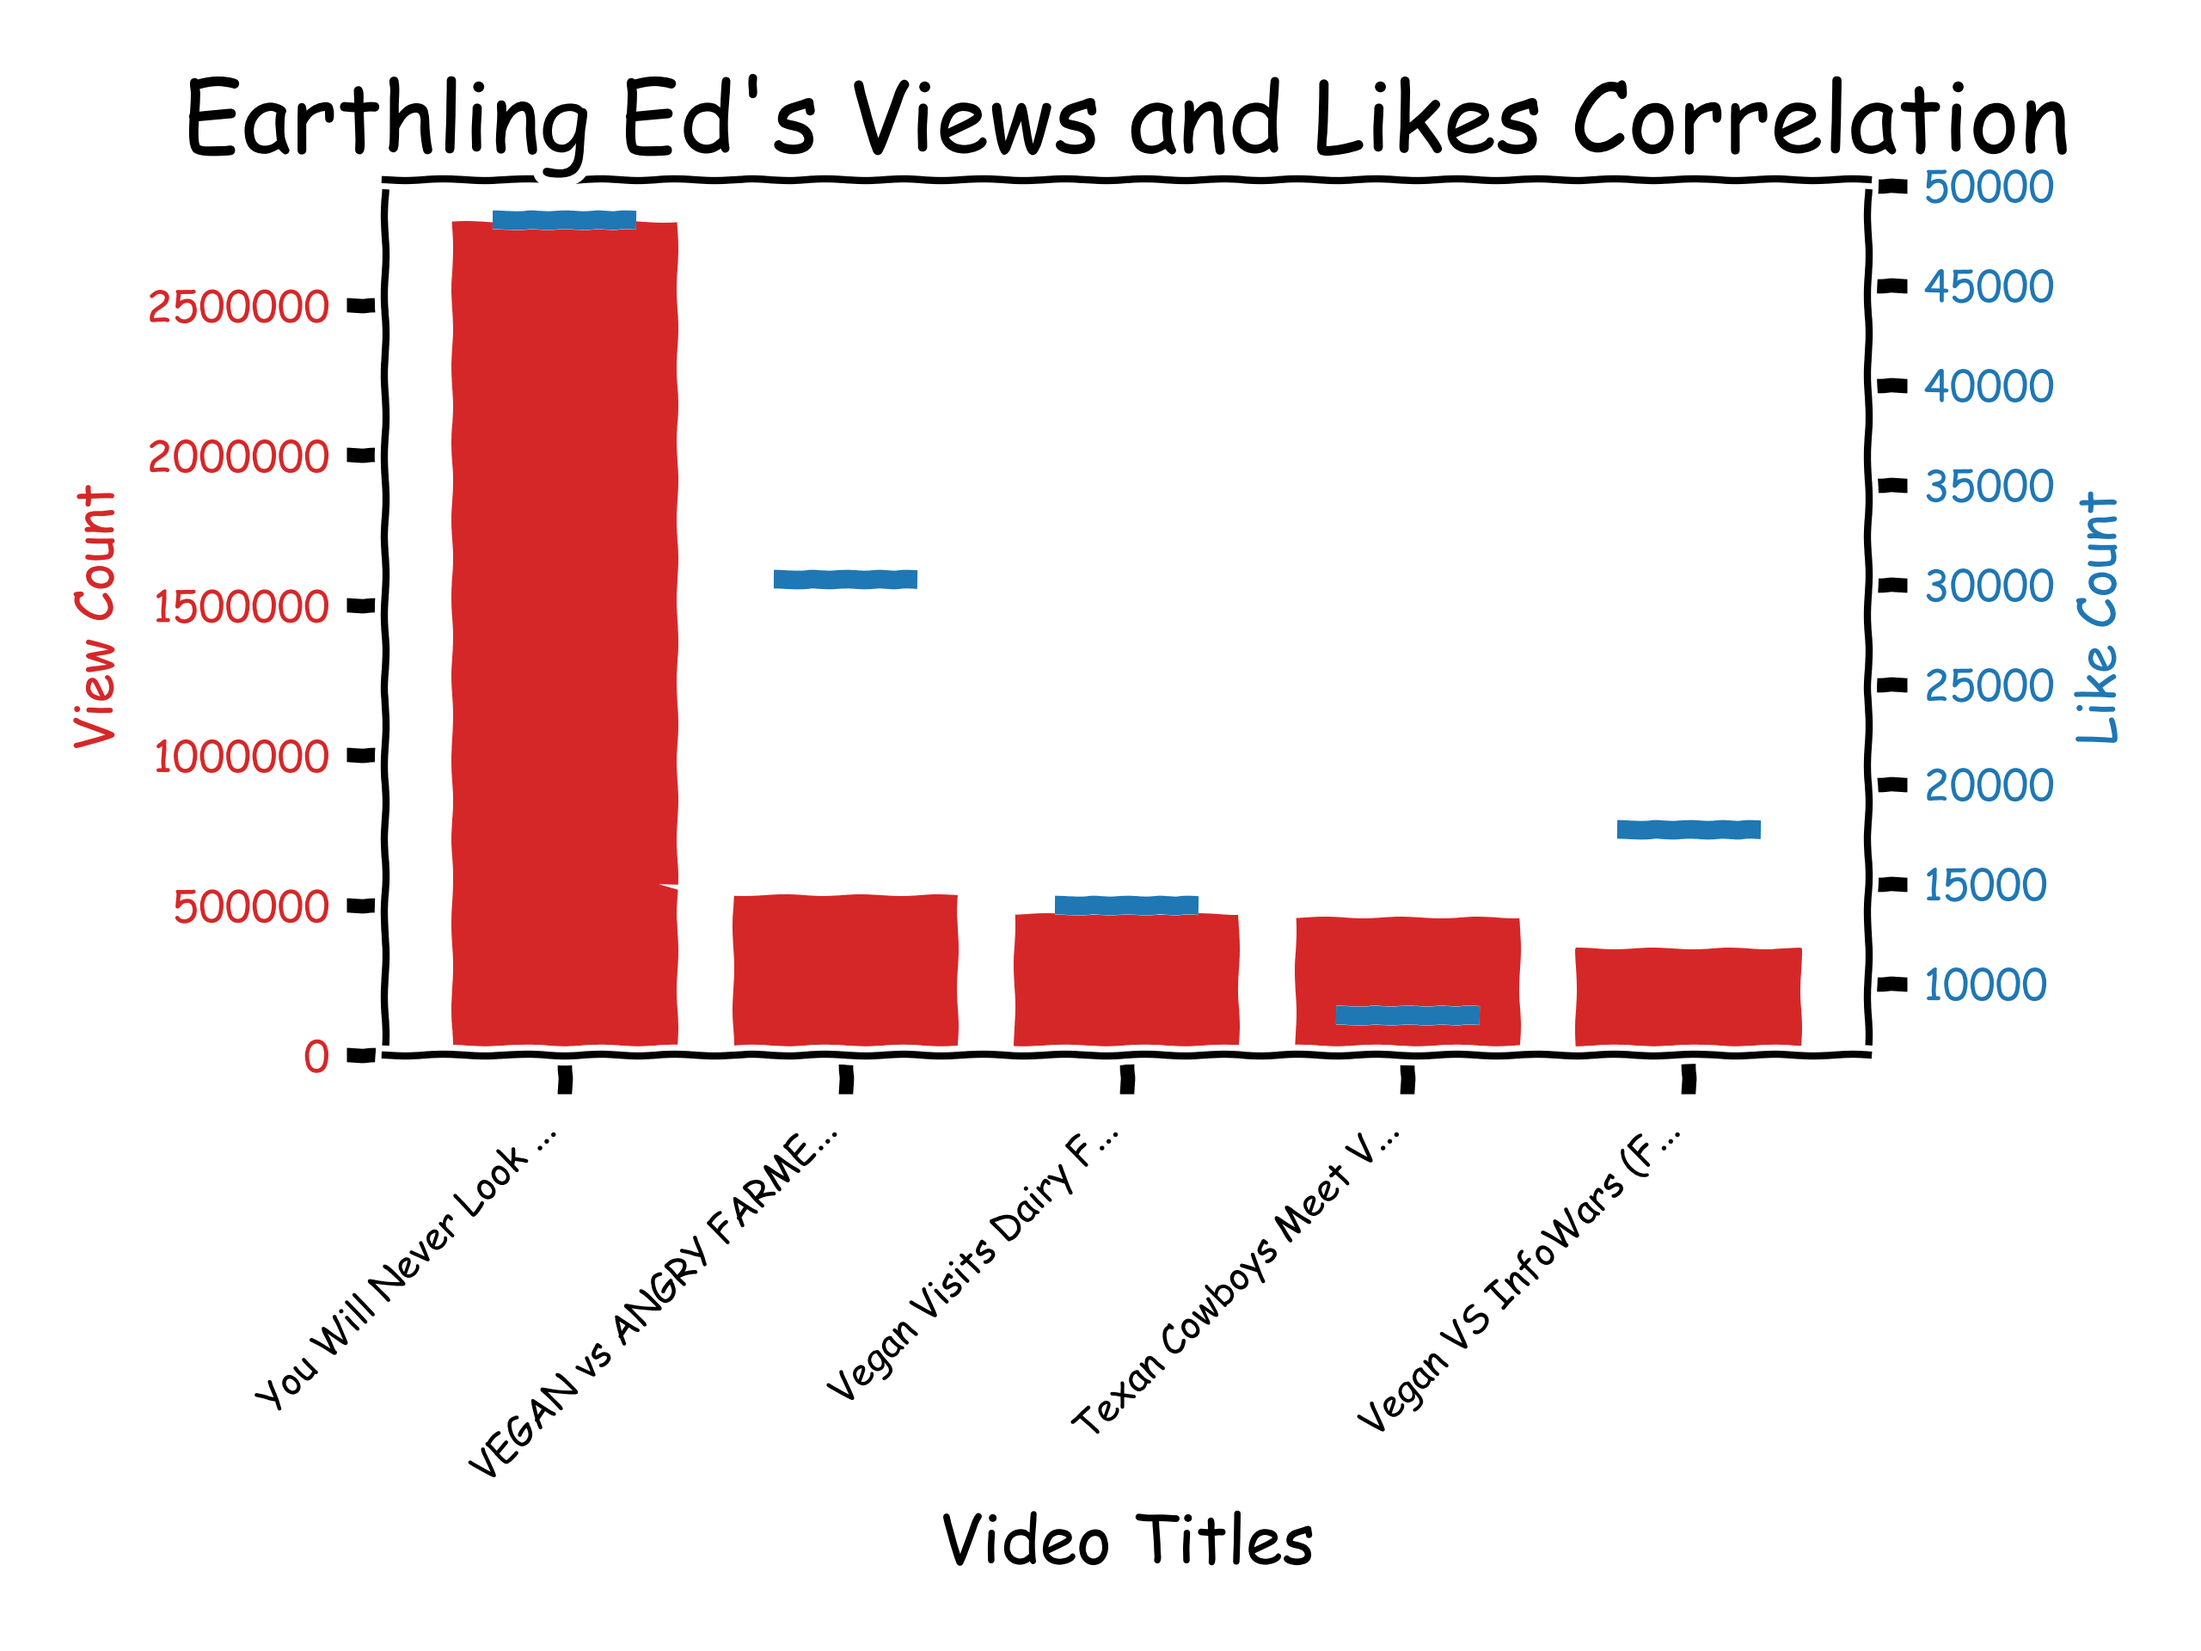
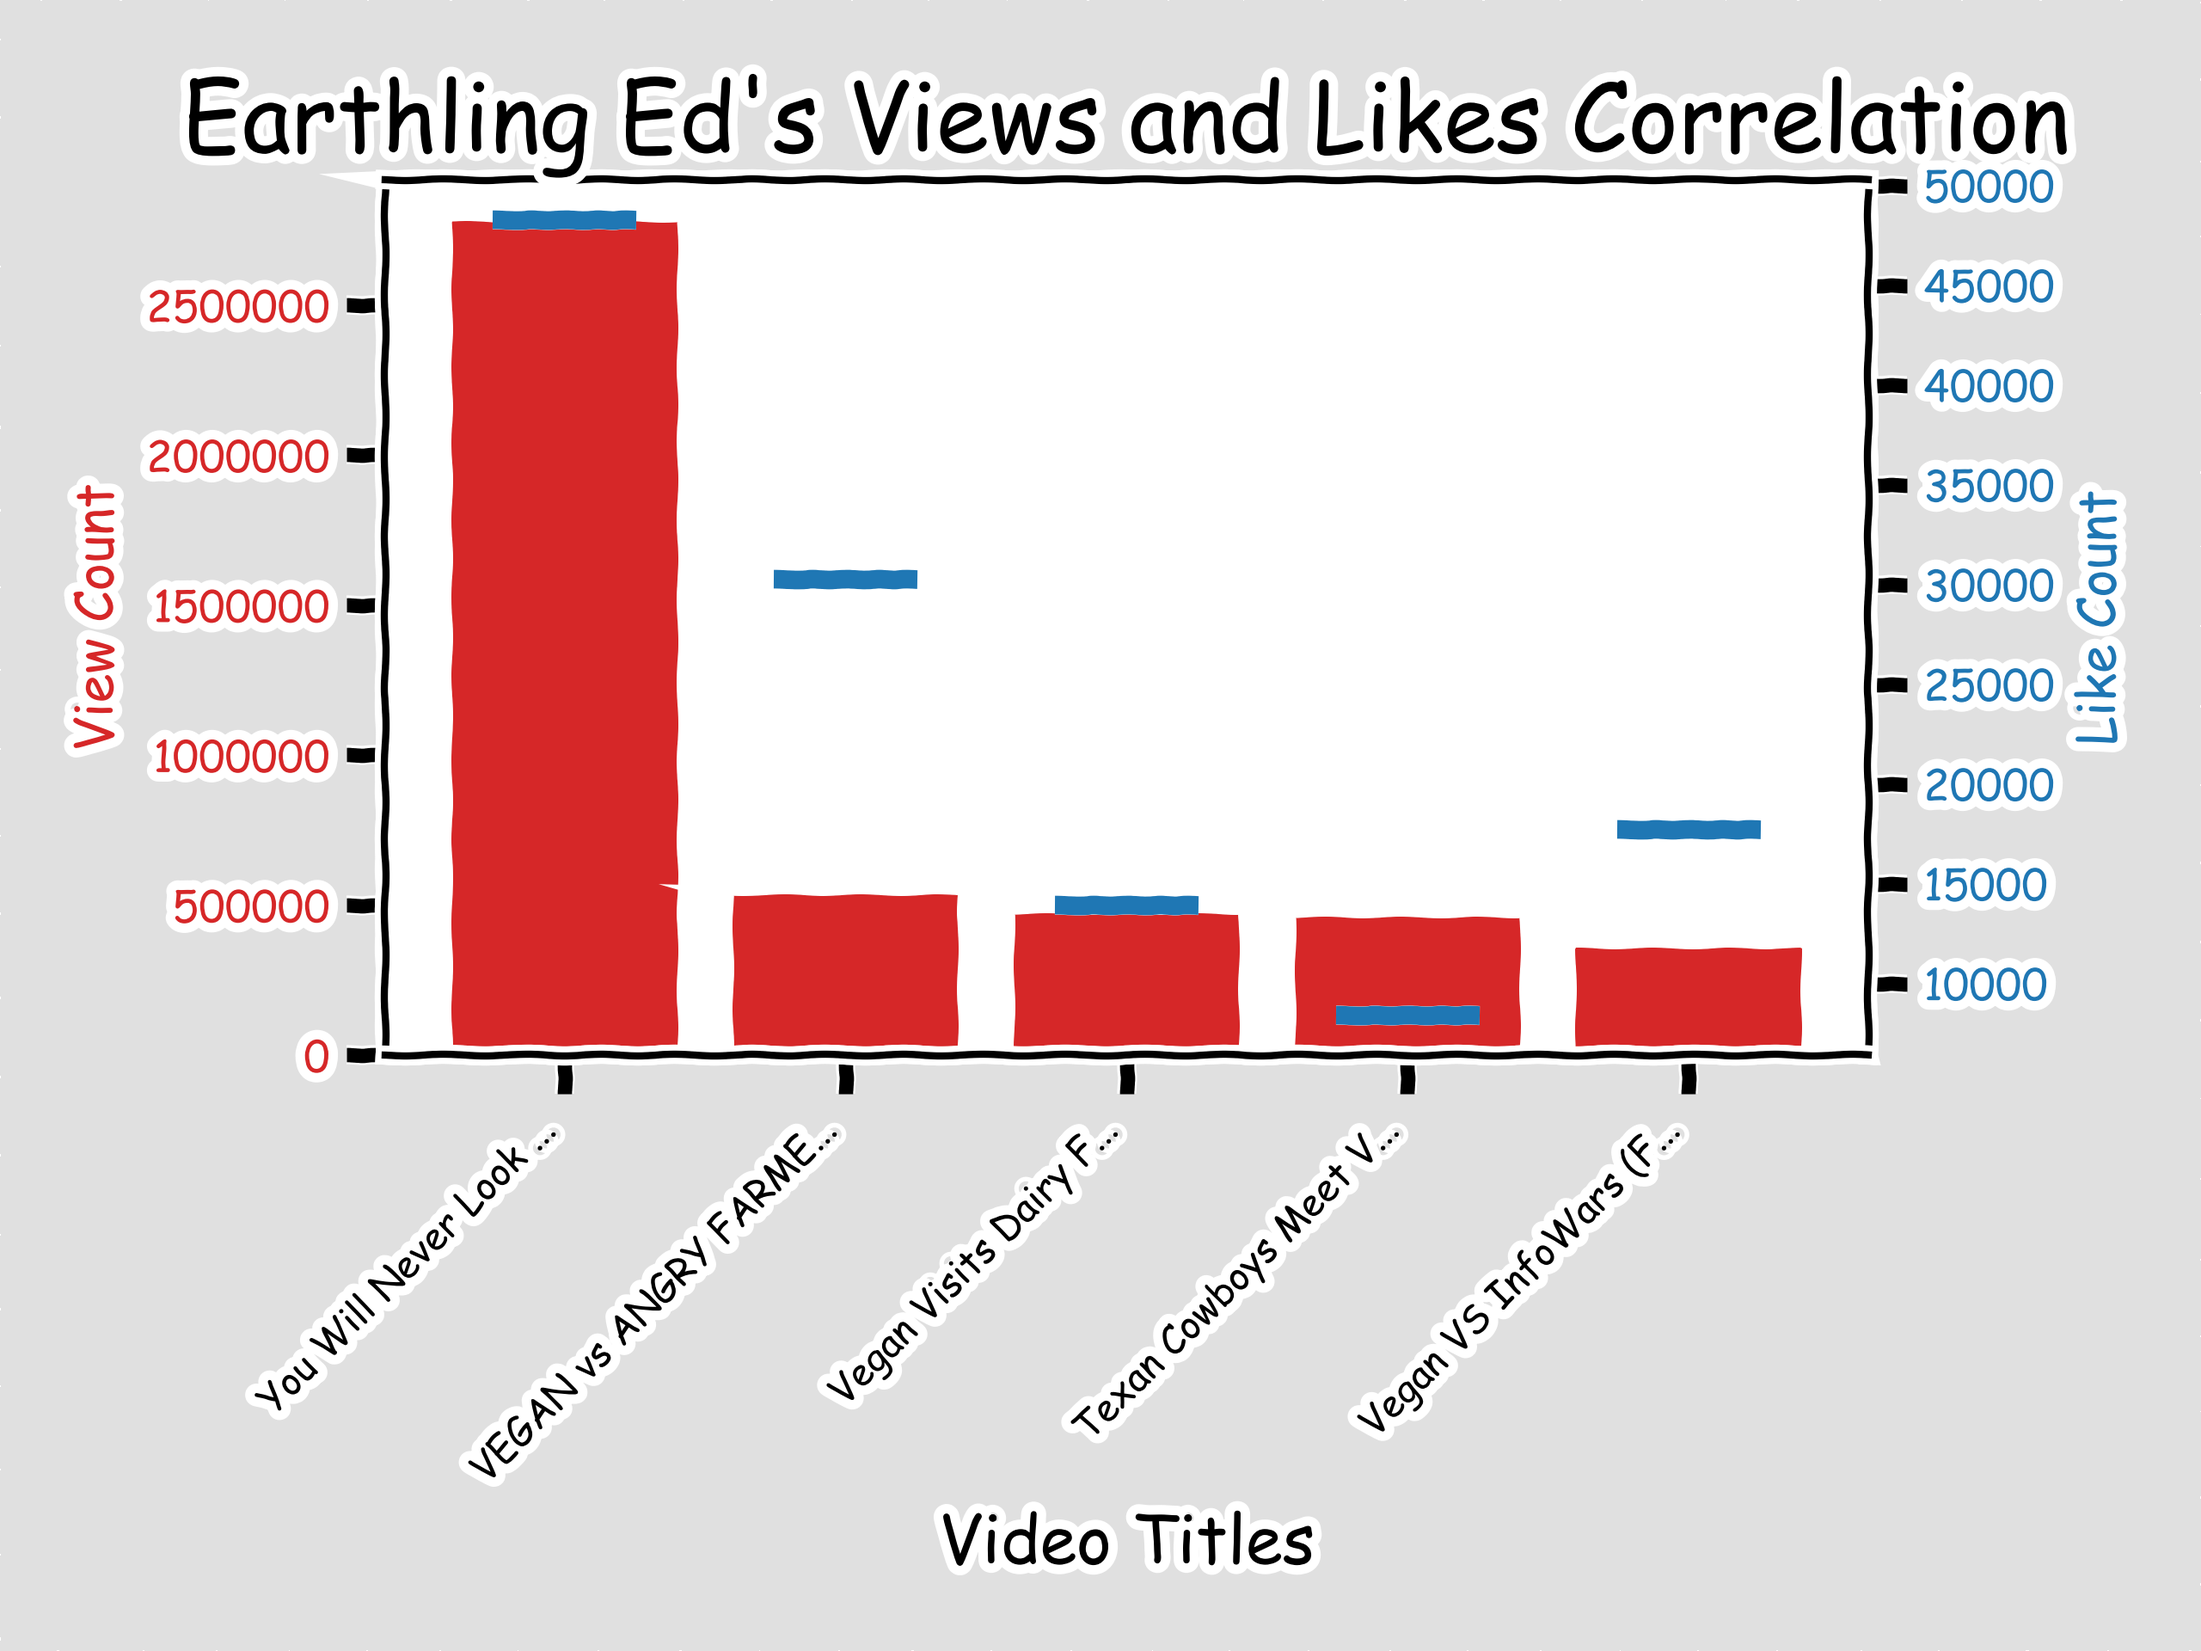
Fixed background color issue

diff --git a/channel_visualiztions/mostViewsBarChart.py b/channel_visualiztions/mostViewsBarChart.py
@@ -45,6 +45,6 @@ plt.setp(ax1.get_xticklabels(), ha="right",rotation=45)
 plt.title(plotTitle,fontdict = {'fontsize' : 20})
 
 fig.tight_layout()
-plt.savefig(saveImagePath, dpi = 400)
+plt.savefig(saveImagePath, dpi = 400,facecolor=fig.get_facecolor())
 
 plt.show()
